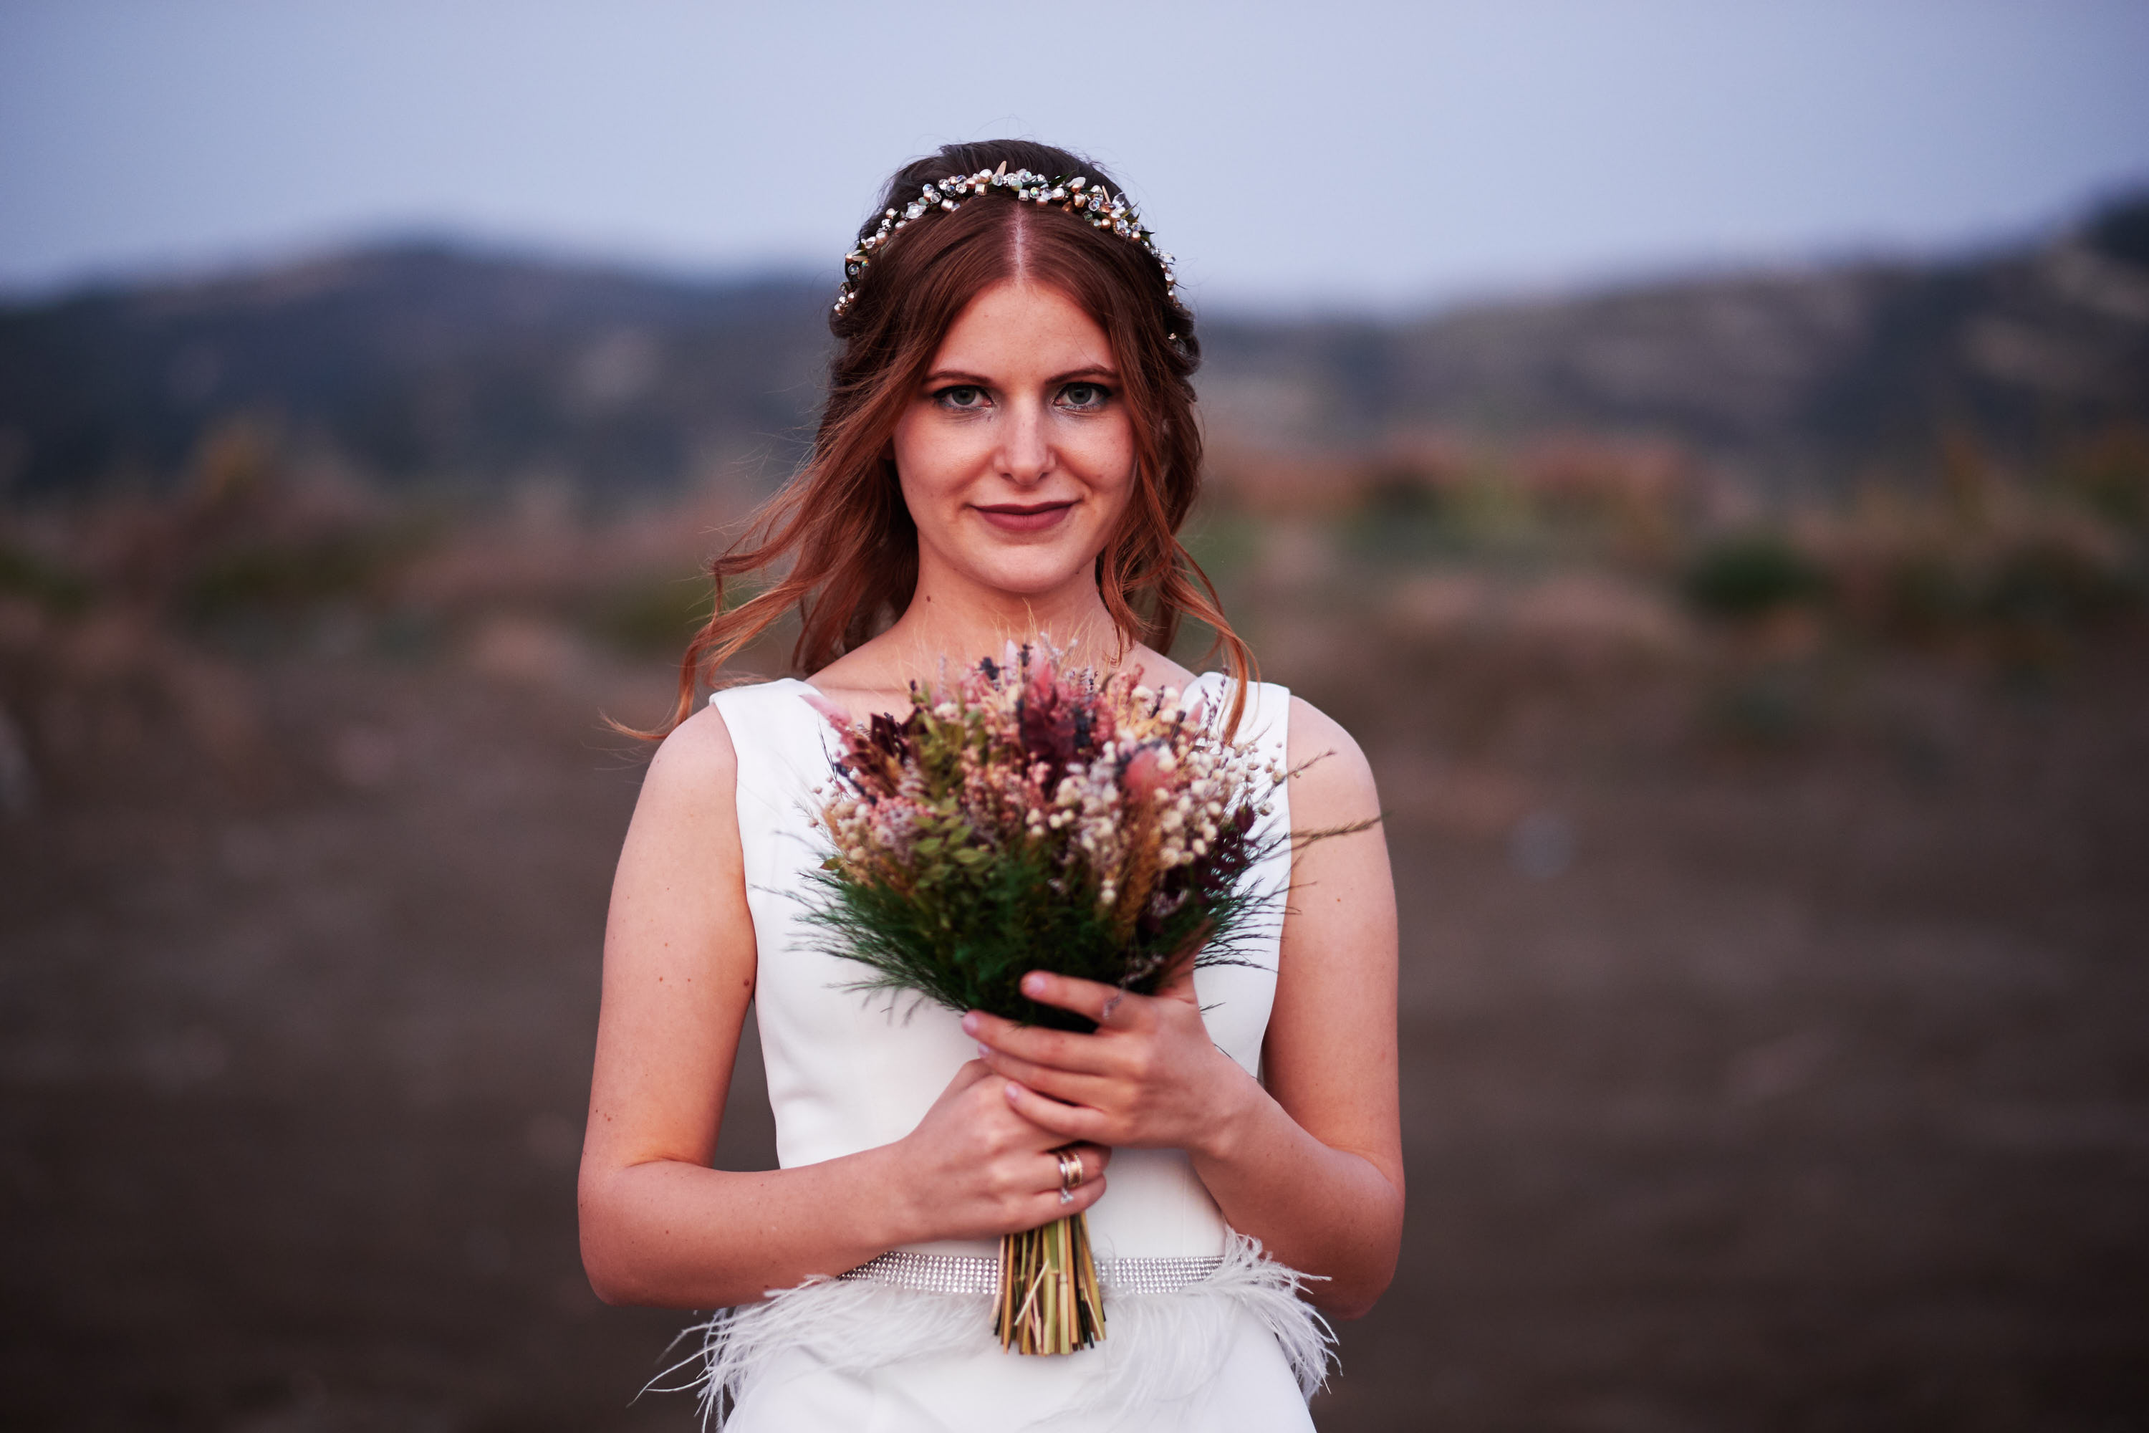
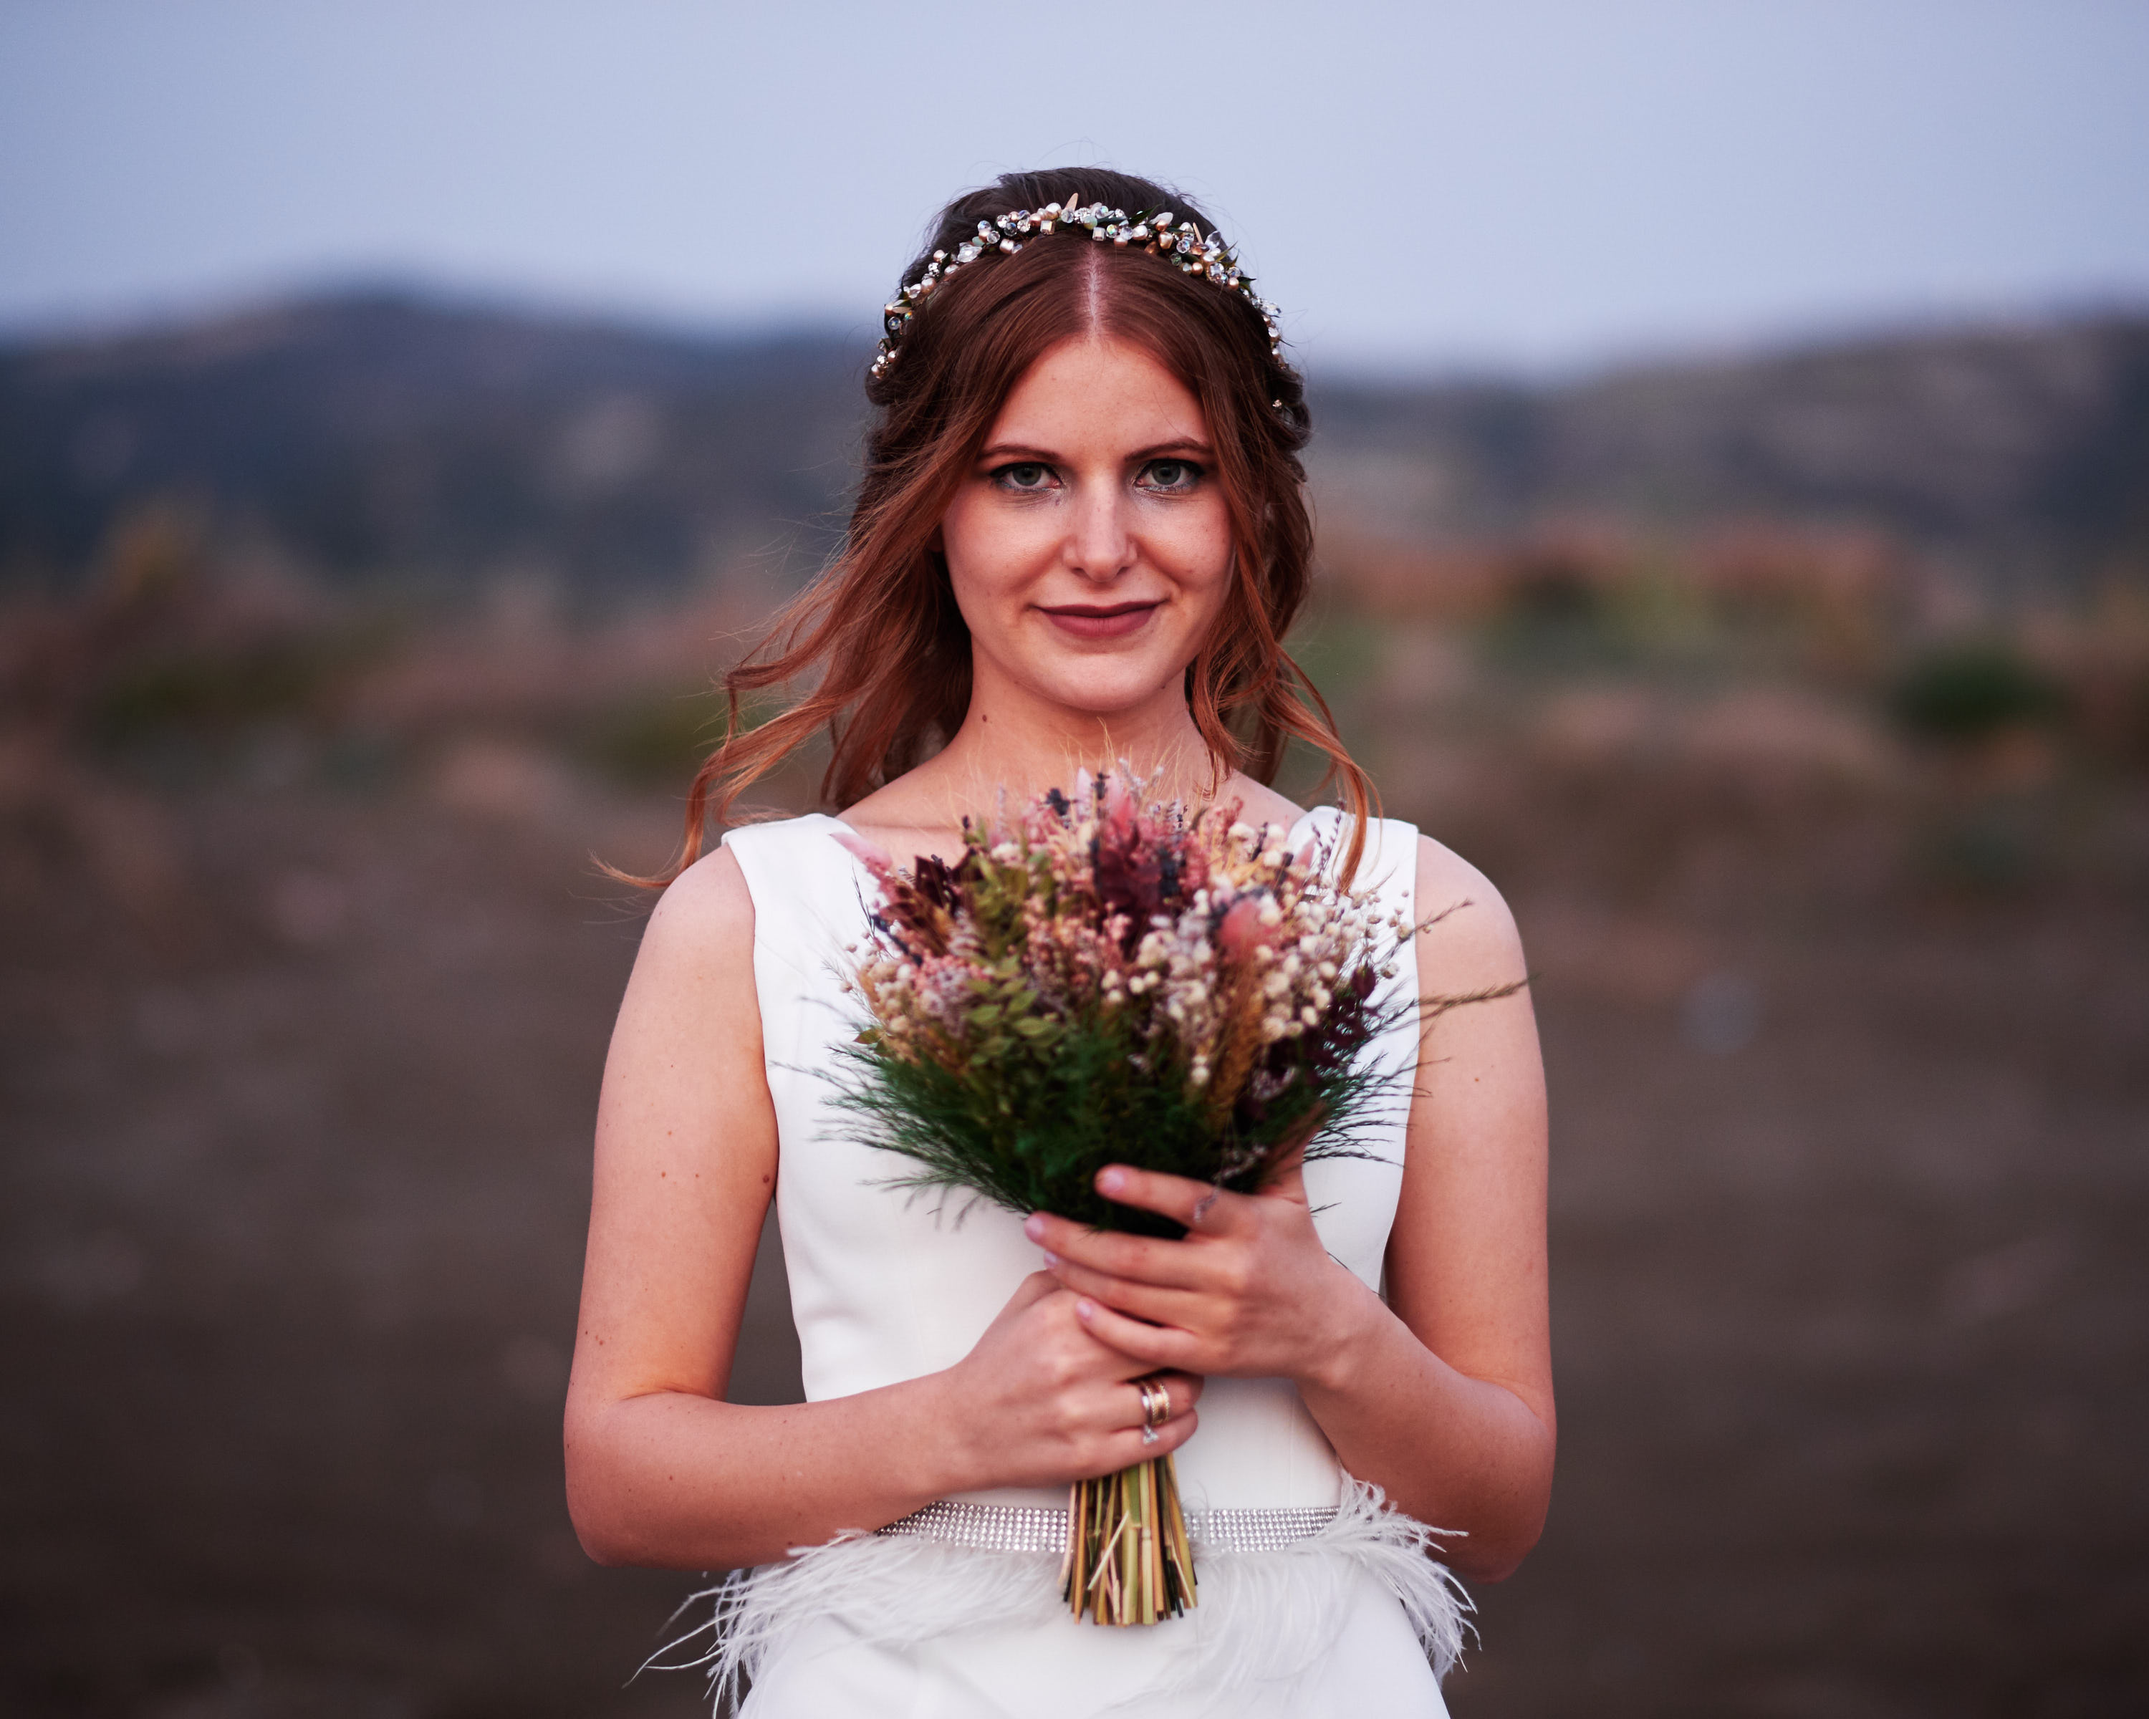
portfolio gallery

diff --git a/public/wedding.html b/public/wedding.html
@@ -16,8 +16,7 @@
         const lightbox = new PhotoSwipeLightbox({
           gallery: '#gallery--main-page',
           children: 'a',
-          showHideAnimationType: 'none',
-          zoomAnimationDuration: false,
+          showHideAnimationType: 'zoom',
           pswpModule: () => import('./js/photoswipe.esm.js')
         });
         lightbox.init();
@@ -38,92 +37,85 @@
             
             </li>
         </div>
-        <div class="topnav" id="navMenu">
-            <a href="javascript:void(0);" class="icon" onclick="showMenu()">
-                
-            </a>
+        <div class="topnav" id="navMenu">      
             <div class="topnav-space"></div>
-
-            
         </div>
     </header>
 <div class="header-spacer"></div>
-<div class="container">   
-        <div class="pswp-gallery pswp-gallery--single-column gallery-hover" id="gallery--main-page">
+<div class="container portfolio-container">   
+        <div class="pswp-gallery pswp-gallery--single-column gallery-hover port-img" id="gallery--main-page">
         
                 <a href="img/wed-gallery/photo-2.jpg"
                 data-pswp-width="2000" 
-                data-pswp-height="1333" 
+                data-pswp-height="1333"
                 target="_blank">
-                <img src="img/wed-gallery/photo-thumb-2.jpg" alt="" /></a>
+                <img src="img/wed-gallery/thumb-2.jpg" alt="" /></a>
 
                 <a href="img/wed-gallery/photo-10.jpg"
-                data-pswp-width="2000" 
-                data-pswp-height="1333" 
+                data-pswp-width="1500" 
+                data-pswp-height="1200" 
                 target="_blank">
-                <img src="img/wed-gallery/photo-thumb-10.jpg" alt="" /></a>
+                <img src="img/wed-gallery/thumb-10.jpg" alt="" /></a>
 
                 <a href="img/wed-gallery/photo-4.jpg"
                 data-pswp-width="2000" 
                 data-pswp-height="1333" 
                 target="_blank">
-                <img src="img/wed-gallery/photo-thumb-4.jpg" alt="" /></a>
+                <img src="img/wed-gallery/thumb-4.jpg" alt="" /></a>
 
                 <a href="img/wed-gallery/photo-5.jpg"
                 data-pswp-width="2000" 
                 data-pswp-height="2000" 
                 target="_blank">
-                <img src="img/wed-gallery/photo-thumb-5.jpg" alt="" /></a>
+                <img src="img/wed-gallery/thumb-5.jpg" alt="" /></a>
 
-                <a href="img/wed-gallery/photo-t2-2.jpg"
+                <a href="img/wed-gallery/photo2-1.jpg"
                 data-pswp-width="2000" 
                 data-pswp-height="1333" 
                 target="_blank">
-                <img src="img/wed-gallery/photo-t2-thumb-2.jpg" alt="" /></a>
+                <img src="img/wed-gallery/thumb2-1.jpg" alt="" /></a>
 
-                <a href="img/wed-gallery/photo-t2-10.jpg"
+                <a href="img/wed-gallery/photo2-2.jpg"
                 data-pswp-width="2000" 
                 data-pswp-height="1333" 
                 target="_blank">
-                <img src="img/wed-gallery/photo-t2-thumb-10.jpg" alt="" /></a>
+                <img src="img/wed-gallery/thumb2-2.jpg" alt="" /></a>
 
-                <a href="img/wed-gallery/photo-t2-4.jpg"
+                <a href="img/wed-gallery/photo2-3.jpg"
+                data-pswp-width="3000" 
+                data-pswp-height="2400" 
+                target="_blank">
+                <img src="img/wed-gallery/thumb2-3.jpg" alt="" /></a>
+
+                <a href="img/wed-gallery/photo2-4.jpg"
                 data-pswp-width="2000" 
                 data-pswp-height="1333" 
                 target="_blank">
-                <img src="img/wed-gallery/photo-t2-thumb-4.jpg" alt="" /></a>
+                <img src="img/wed-gallery/thumb2-4.jpg" alt="" /></a>
 
-                <a href="img/wed-gallery/photo-t2-6.jpg"
-                data-pswp-width="2000" 
-                data-pswp-height="1333" 
-                target="_blank">
-                <img src="img/wed-gallery/photo-t2-thumb-6.jpg" alt="" /></a>
-
-                <a href="img/wed-gallery/photo-f1-2.jpg"
-                data-pswp-width="2000" 
-                data-pswp-height="1333" 
-                target="_blank">
-                <img src="img/wed-gallery/photo-f1-thumb-2.jpg" alt="" /></a>
-
-                <a href="img/wed-gallery/photo-f1-1.jpg"
-                data-pswp-width="2000" 
-                data-pswp-height="1333" 
-                target="_blank">
-                <img src="img/wed-gallery/photo-f1-thumb-1.jpg" alt="" /></a>
-
-                <a href="img/wed-gallery/photo-f1-3.jpg"
+                <a href="img/wed-gallery/photo3-4.jpg"
                 data-pswp-width="1333" 
                 data-pswp-height="2000" 
                 target="_blank">
-                <img src="img/wed-gallery/photo-f1-thumb-3.jpg" alt="" /></a>
+                <img src="img/wed-gallery/thumb3-4.jpg" alt="" /></a>
 
-                <a href="img/wed-gallery/photo-f1-5.jpg"
+                <a href="img/wed-gallery/photo3-2.jpg"
+                data-pswp-width="2000" 
+                data-pswp-height="1333" 
+                target="_blank">
+                <img src="img/wed-gallery/thumb3-2.jpg" alt="" /></a>
+
+                <a href="img/wed-gallery/photo3-3.jpg"
                 data-pswp-width="1333" 
                 data-pswp-height="2000" 
                 target="_blank">
-                <img src="img/wed-gallery/photo-f1-thumb-5.jpg" alt="" /></a>
+                <img src="img/wed-gallery/thumb3-3.jpg" alt="" /></a>
 
-            
+                <a href="img/wed-gallery/photo3-1.jpg"
+                data-pswp-width="2000" 
+                data-pswp-height="1333" 
+                target="_blank">
+                <img src="img/wed-gallery/thumb3-1.jpg" alt="" /></a>
         </div>
     </div>
     </div>

diff --git a/public/css/style.css b/public/css/style.css
@@ -413,6 +413,10 @@ a.lang-select {
     text-align: center;
 }
 
+.portfolio-container {
+  padding: 50px 0px;
+}
+
 .center {
   justify-content: center;
 }
@@ -894,4 +898,9 @@ a.lang-select {
 
 .bkg-card {
   background-color: #55C282;
+}
+
+.port-img img{
+  max-width: 100%;
+  height: auto;
 }

diff --git a/public/css/photoswipe.css b/public/css/photoswipe.css
@@ -53,7 +53,7 @@
 
 .pswp img {
   max-width: none;
-  padding: 20px 10px;
+  padding: 0px 0px;
 }
 
 .pswp--open {
